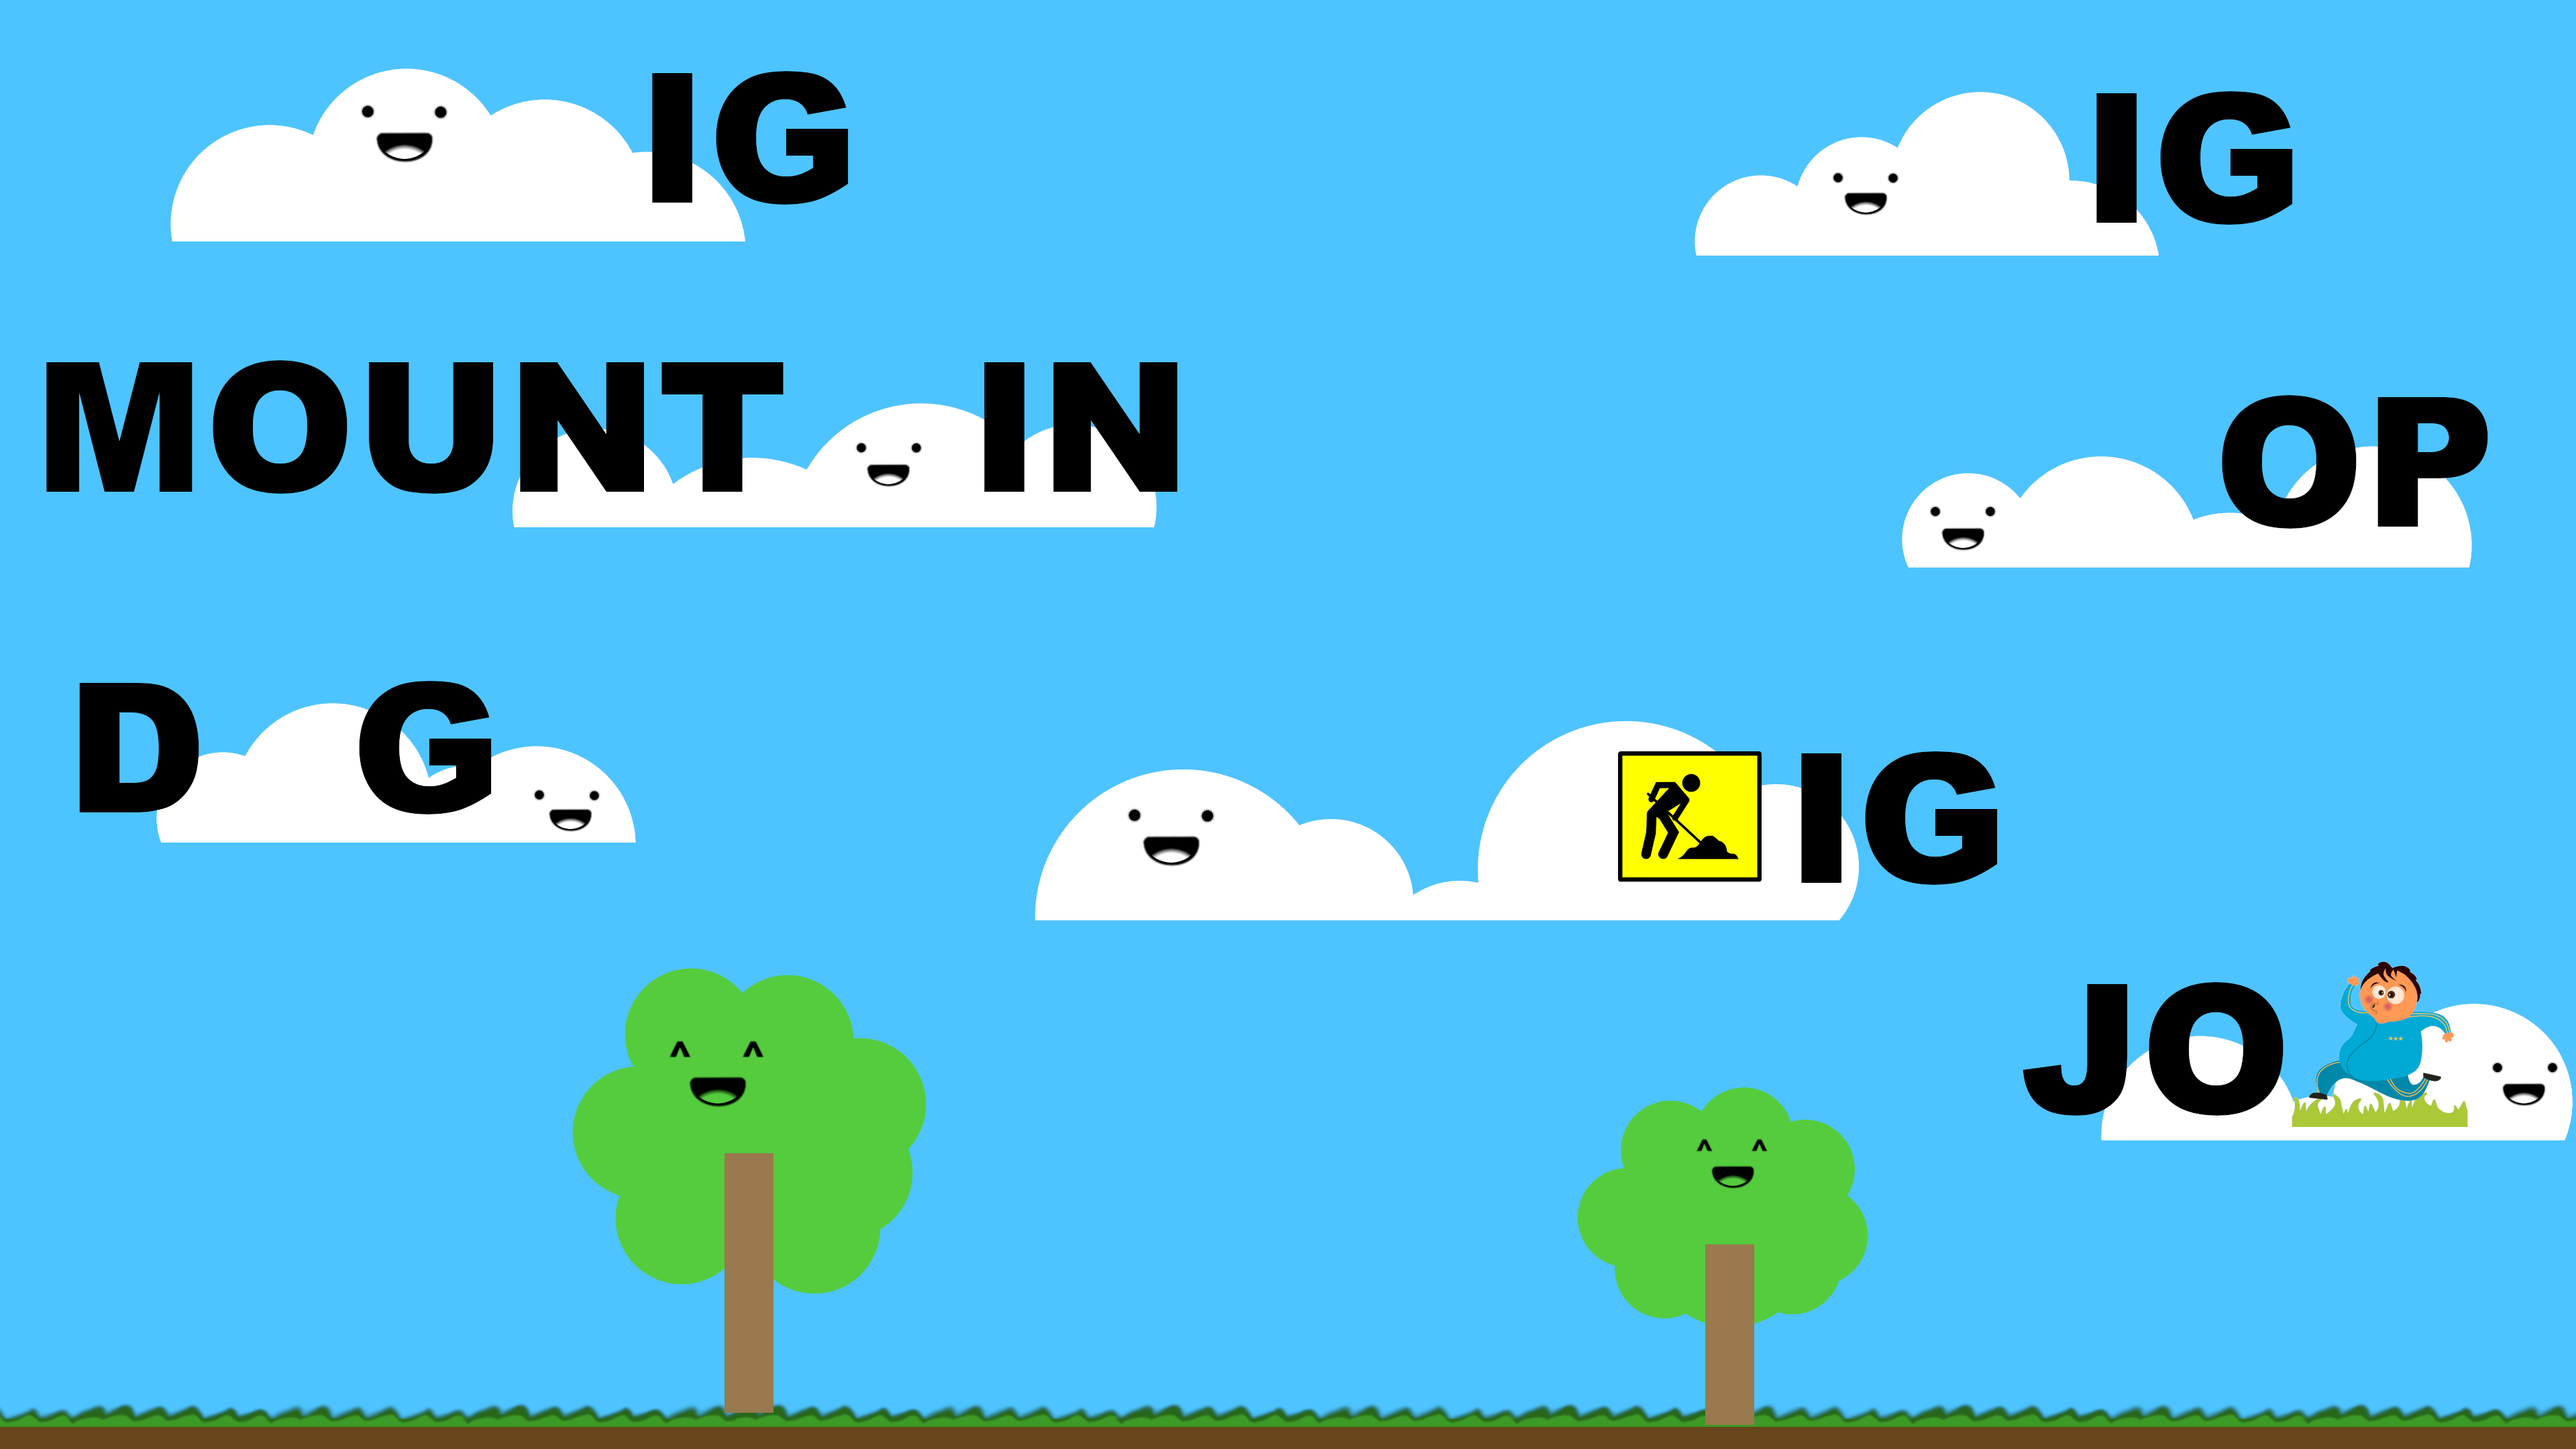
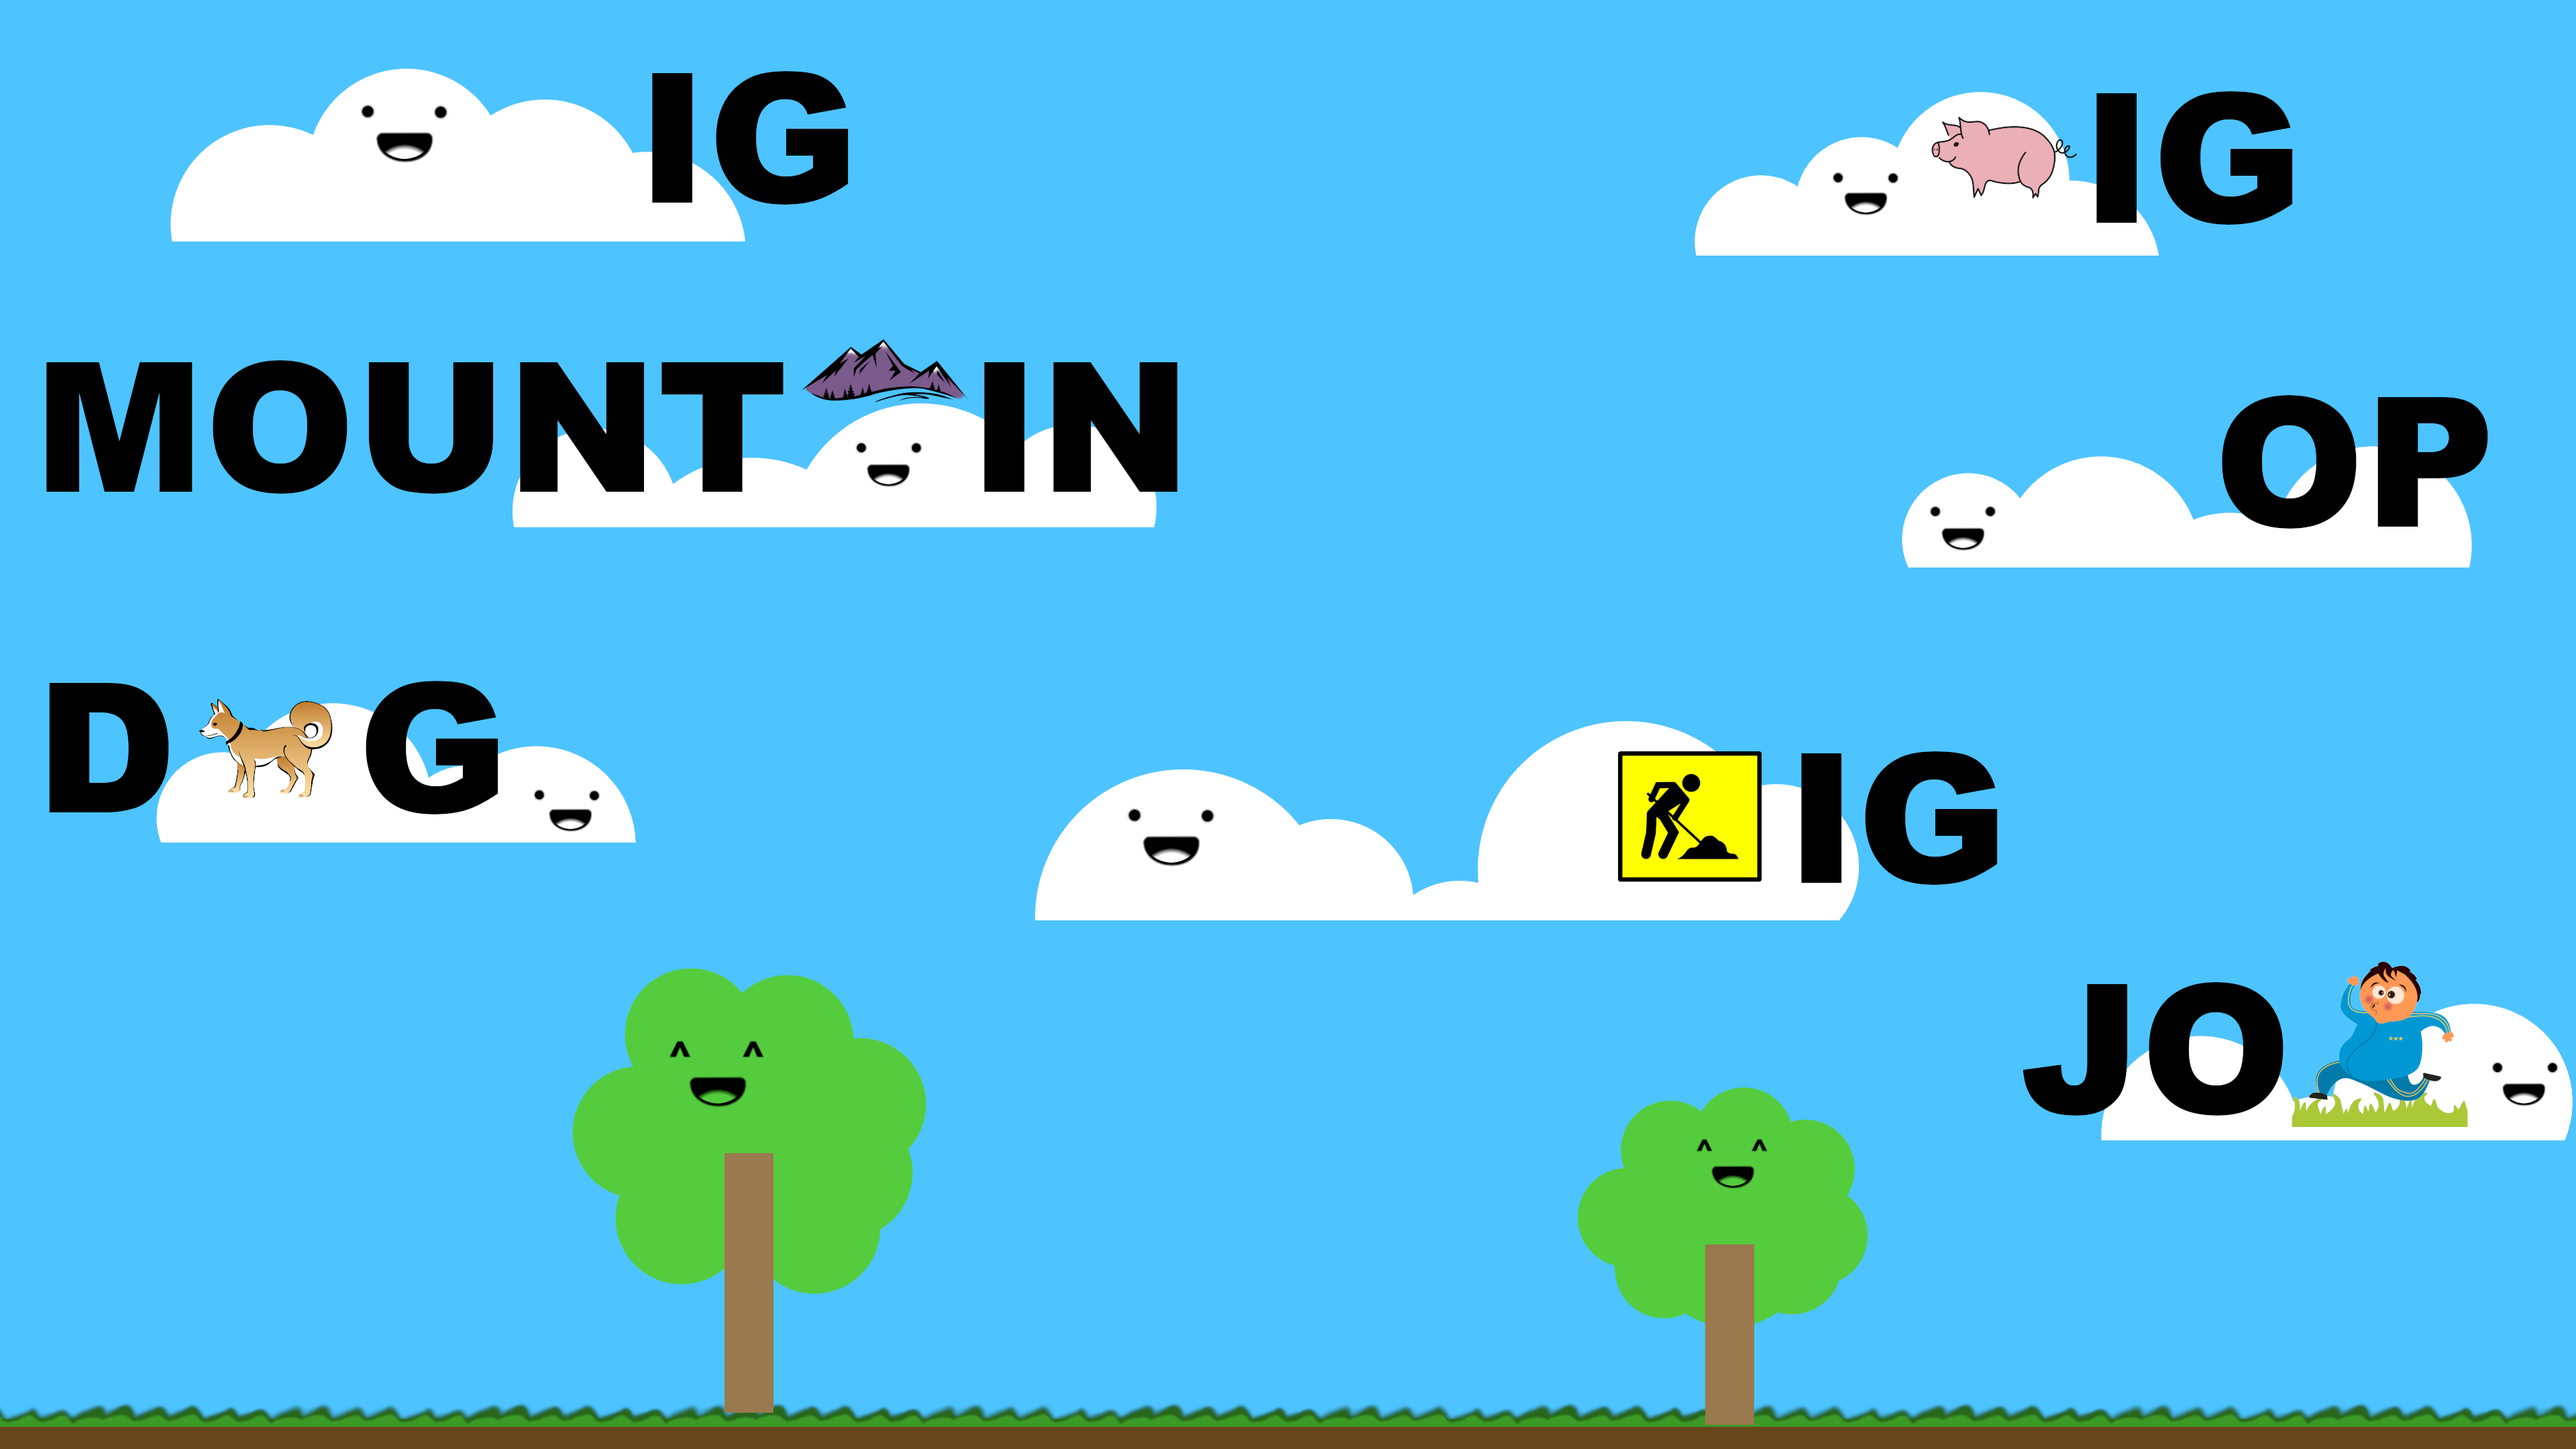
added three more dancing letter gifs (D, H, O); updated both html files; added bkgd2.png (a stripped down background image); updated the background for the People-book game

Changed region(s): [[0.0, 0.4653, 0.1875, 0.5583], [0.75, 0.062, 0.8125, 0.1241], [0.3125, 0.2171, 0.375, 0.2792]]

diff --git a/game2people.html b/game2people.html
@@ -592,18 +592,16 @@ function getGrayLetter(whichLetter) {
 function checkIfCompletingWord() {
   var letterOfCursor = document.getElementById("characterCursor").src.charAt(document.getElementById("characterCursor").src.length-5);
   if (document.getElementById("candidate" + letterOfCursor).style.visibility != "hidden") {
-    if (letterOfCursor == "O" && userHzPos >= 0.057 && userHzPos <= 0.064 && userVtPos < 88.1 && userVtPos > 87.9) {
+    if (letterOfCursor == "O" && userHzPos >= 0.067 && userHzPos <= 0.078 && userVtPos < 88.1 && userVtPos > 87.9) {
         lettersFinished++;
         document.getElementById("candidateO").style.visibility = "hidden";
         document.getElementById("fullScreenVocabPic").src = "images/dog.png";
         var showVocabPicFullScreen = setInterval(frame, 5);
-    } else if (userHzPos >= 0.761 && userHzPos <= 0.775 && userVtPos < 125.1 && userVtPos > 124.9) {
-      if (letterOfCursor == "H") {
+    } else if (letterOfCursor == "H" && userHzPos >= 0.789 && userHzPos <= 0.799 && userVtPos < 125.1 && userVtPos > 124.9) {
         lettersFinished++;
         document.getElementById("candidateH").style.visibility = "hidden";
-        document.getElementById("fullScreenVocabPic").src = "images/hop.png";
+        document.getElementById("fullScreenVocabPic").src = "images/hop.gif";
         var showVocabPicFullScreen = setInterval(frame, 5);
-      }
     } else if (userHzPos >= 0.177 && userHzPos <= 0.191 && userVtPos < 170.1 && userVtPos > 169.9) {
       if (letterOfCursor == "J") {
         lettersFinished++;
@@ -625,18 +623,16 @@ function checkIfCompletingWord() {
         document.getElementById("fullScreenVocabPic").src = "images/pig.png";
         var showVocabPicFullScreen = setInterval(frame, 5);
       }
-    } else if (letterOfCursor == "D" && userHzPos >= 0.657 && userHzPos <= 0.667 && userVtPos < 76.1 && userVtPos > 75.9) {
+    } else if (letterOfCursor == "D" && userHzPos >= 0.629 && userHzPos <= 0.639 && userVtPos < 76.1 && userVtPos > 75.9) {
         lettersFinished++;
         document.getElementById("candidateD").style.visibility = "hidden";
         document.getElementById("fullScreenVocabPic").src = "images/dig.png";
         var showVocabPicFullScreen = setInterval(frame, 5);
-    } else if (userHzPos >= 0.301 && userHzPos <= 0.311 && userVtPos < 131.1 && userVtPos > 130.9) {
-      if (letterOfCursor == "A") {
+    } else if (letterOfCursor == "A" && userHzPos >= 0.301 && userHzPos <= 0.311 && userVtPos < 131.1 && userVtPos > 130.9) {
         lettersFinished++;
         document.getElementById("candidateA").style.visibility = "hidden";
         document.getElementById("fullScreenVocabPic").src = "images/mountain.png";
         var showVocabPicFullScreen = setInterval(frame, 5);
-      }
     }
   }
 
@@ -673,6 +669,7 @@ function checkIfCompletingWord() {
       setTimeout(function(){
         if (lettersFinished == 7) {
           document.getElementById("gameOverScreen").style.animationPlayState = "running";
+          document.getElementById("characterCursor").style.display = "none";
         } else {
           document.getElementById("fullScreenVocabPic").style.top = "100vh";
           document.getElementById("letterSelectionCurtain").style.bottom = "0px";

diff --git a/game2monsters.html b/game2monsters.html
@@ -677,6 +677,7 @@ function checkIfCompletingWord() {
       setTimeout(function(){
         if (lettersFinished == 8) {
           document.getElementById("gameOverScreen").style.animationPlayState = "running";
+          document.getElementById("characterCursor").style.display = "none";
         } else {
           document.getElementById("fullScreenVocabPic").style.top = "100vh";
           document.getElementById("letterSelectionCurtain").style.bottom = "0px";
@@ -684,7 +685,6 @@ function checkIfCompletingWord() {
       }, 2500);
       clearInterval(showVocabPicFullScreen);
     } else {
-      //alert(pos);
       pos = pos - 8;      // this is how fast is moves up the screen
       document.getElementById("fullScreenVocabPic").style.top = pos + "px";
     }
@@ -740,10 +740,6 @@ function onCloudPet() {
     return true;
   }
   return false;
-}
-
-function getRidOfFullScreenVocabPic(imgElement) {
-
 }
 
 </script>
